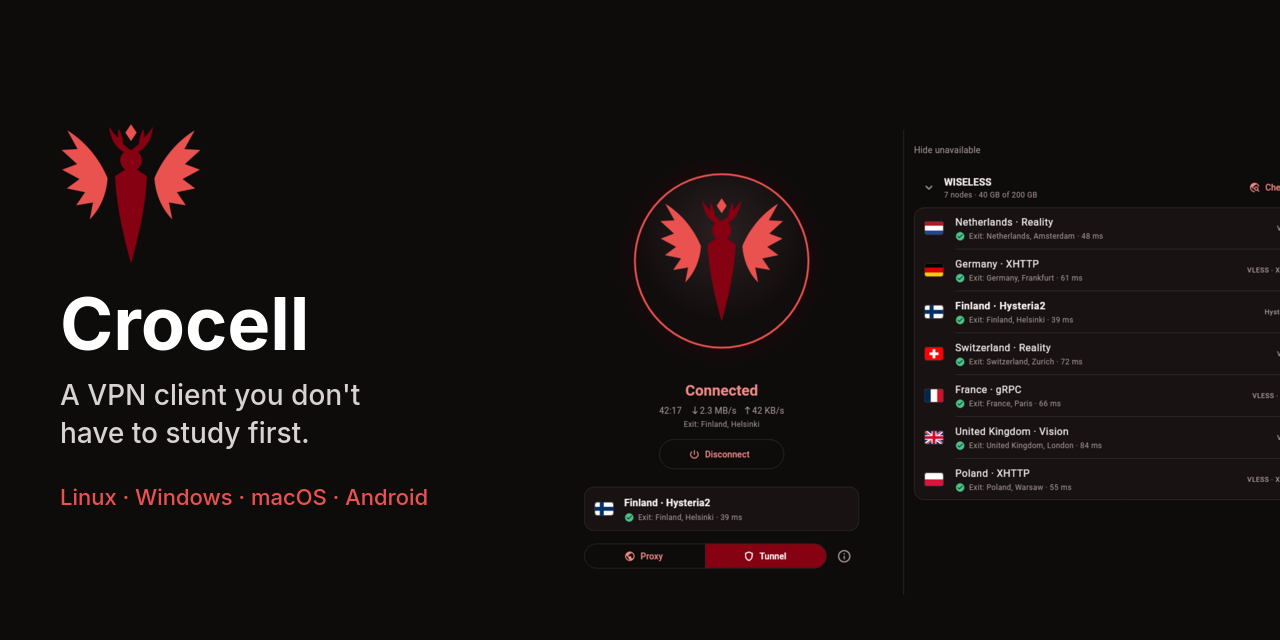
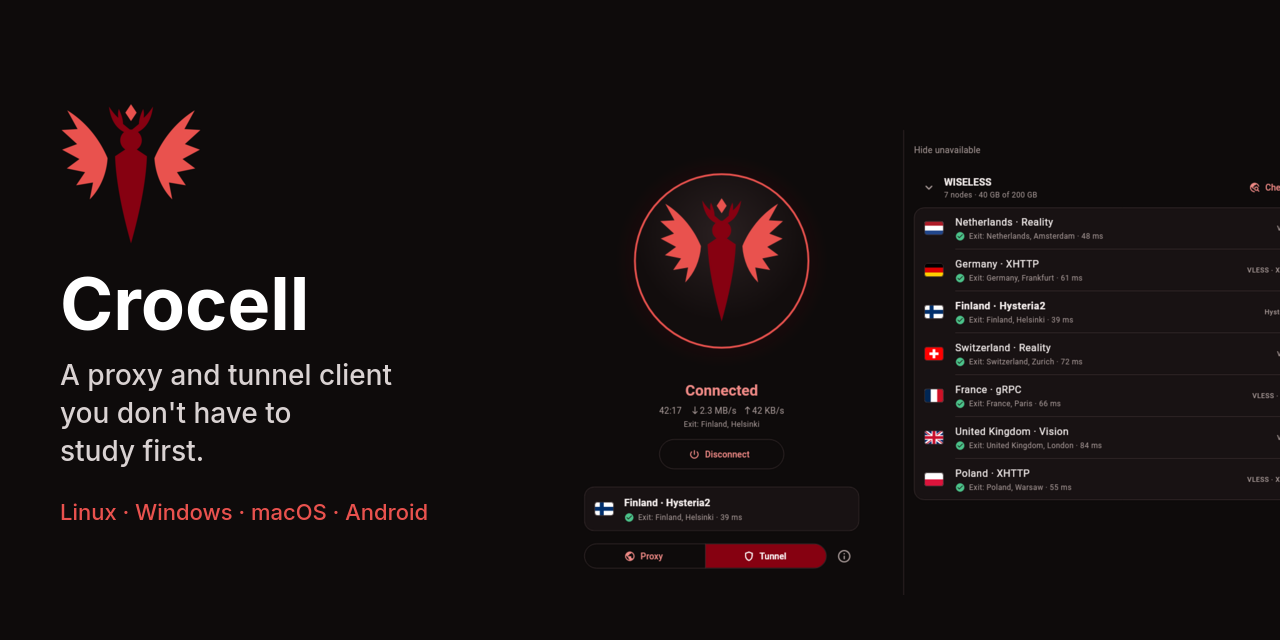
README: proxy and tunnel client, the author's pledge; preview image to match

Changed region(s): [[0.0312, 0.4375, 0.3125, 0.7188], [0.0312, 0.1562, 0.1562, 0.4062], [0.0312, 0.75, 0.3438, 0.8125]]

diff --git a/README.md b/README.md
@@ -5,7 +5,7 @@
 <h1 align="center">Crocell</h1>
 
 <p align="center">
-  A VPN client you don't have to study first.<br>
+  A proxy and tunnel client you don't have to study first.<br>
   Linux · Windows · macOS · Android<br>
   VLESS Reality · XHTTP · VMess · Trojan · Shadowsocks · Hysteria2 · TUIC · WireGuard · AmneziaWG
 </p>
@@ -29,7 +29,7 @@
 
 Paste your subscription link, pick a node, press the button. That's the whole first screen. No wall of toggles, no "ping 5000" that means nothing to anyone.
 
-Under the hood it's [mihomo](https://github.com/MetaCubeX/mihomo), so it speaks every modern protocol. On top of that it does the things I kept missing in other clients: it shows where a node really exits, it checks that traffic actually goes through the VPN (and tells you when it stops), and it lets you send a site or a program around the tunnel without editing YAML.
+Under the hood it's [mihomo](https://github.com/MetaCubeX/mihomo), so it speaks every modern protocol. On top of that it does the things I kept missing in other clients: it shows where a node really exits, it checks that traffic actually goes through the node (and tells you when it stops), and it lets you send a site or a program around the tunnel without editing YAML.
 
 It's free and open source, with no accounts, no ads and no telemetry. Crocell is only the client, so you bring a subscription from your provider or a server of your own.
 
@@ -46,12 +46,12 @@ When a new version comes out, Crocell says so after you connect, and a click on 
 
 ### First start
 
-On a desktop the VPN is held by a small system service, so closing or updating the window never drops the connection. The service needs admin rights once:
+On a desktop the connection is held by a small system service, so closing or updating the window never drops it. The service needs admin rights once:
 
 - **Linux.** Crocell shows the install command and a copy button. If [Gear Lever](https://flathub.org/apps/it.mijorus.gearlever) keeps the AppImage, it's `sudo ~/AppImages/crocell.appimage crocelld install`. Gear Lever also picks up updates by itself.
 - **Windows.** The installer sets the service up. The build isn't code-signed yet, so SmartScreen will warn you: "More info", then "Run anyway".
 - **macOS.** Drag Crocell to Applications. It isn't notarized, so macOS blocks the first launch; allow it in System Settings → Privacy & Security → "Open Anyway". Then press "Install service" in Crocell and enter your password.
-- **Android.** Let your browser install the APK, then allow the VPN when Crocell asks. That's it, there's no service to install.
+- **Android.** Let your browser install the APK, then allow the connection when Android asks. That's it, there's no service to install.
 
 ## What it does
 
@@ -59,8 +59,8 @@ On a desktop the VPN is held by a small system service, so closing or updating t
 - Takes WireGuard and AmneziaWG too: paste a config, an `awg://` link or a `vpn://` key from AmneziaVPN.
 - Handles VLESS Reality and Vision, XHTTP, Hysteria2 with obfs, and the rest of what mihomo supports.
 - Shows each node as a flag and an exit city after a check, not as a latency number. If the name says Netherlands and the exit says Germany, you'll see that. Nodes that failed their check can be hidden with one switch.
-- Runs as a system proxy (no admin rights, for apps that respect it) or as a TUN tunnel for the whole system. On Android the same choice means the whole phone through the VPN, or a local proxy for the apps you point at it.
-- Routes traffic through three lists: through the VPN, direct, or blocked. A rule can be a site, a wildcard, a subnet, a [runetfreedom](https://github.com/runetfreedom/russia-v2ray-rules-dat) geosite/geoip set (or your own database), a program, or an Android app. Lists copied from v2ray configs paste as they are, `domain:` and `full:` included. A specific rule beats a general one.
+- Runs as a system proxy (no admin rights, for apps that respect it) or as a TUN tunnel for the whole system. On Android the same choice means the whole phone through the tunnel, or a local proxy for the apps you point at it.
+- Routes traffic through three lists: through the tunnel, direct, or blocked. A rule can be a site, a wildcard, a subnet, a [runetfreedom](https://github.com/runetfreedom/russia-v2ray-rules-dat) geosite/geoip set (or your own database), a program, or an Android app. Lists copied from v2ray configs paste as they are, `domain:` and `full:` included. A specific rule beats a general one.
 - Checks the connection right after connecting and every couple of minutes, and sends a notification if traffic stops getting through.
 - Picks up new settings on its own: change a rule while connected and the tunnel quietly reconnects.
 - Turns on and off without opening the window: a Quick Settings tile on Android, and a toggle in GNOME's quick settings (Settings → "Add to GNOME quick settings" installs it).
@@ -74,9 +74,9 @@ On a desktop the VPN is held by a small system service, so closing or updating t
 
 ## Questions
 
-**Is this a VPN service?** No. Crocell has no servers and sells nothing. You need a subscription or a config from a provider, or your own server.
+**Does it come with servers?** No. Crocell has no servers and sells nothing. You need a subscription or a config from a provider, or your own server.
 
-**Will it read my provider's subscription?** If it's V2Ray/Xray links, base64 of them or Clash/mihomo YAML, it should. If it doesn't, [tell us](https://github.com/WiselessGroup/Crocell/issues/new?template=bug_report.yml), but keep the link itself to yourself: it's the key to your VPN.
+**Will it read my provider's subscription?** If it's V2Ray/Xray links, base64 of them or Clash/mihomo YAML, it should. If it doesn't, [tell us](https://github.com/WiselessGroup/Crocell/issues/new?template=bug_report.yml), but keep the link itself to yourself: it works like a password.
 
 **What does the app connect to on its own?** Here's the whole list:
 
@@ -97,7 +97,7 @@ core/             Go core on top of mihomo: subscriptions, checks, the tunnel
 proto/            the API between the client and the core
 ```
 
-On desktops the client talks to `crocelld` over a local socket (loopback with a token on Windows, where Dart has no unix sockets). On Android the same core runs inside the app, and `VpnService` builds the interface it asks for.
+On desktops the client talks to `crocelld` over a local socket (loopback with a token on Windows, where Dart has no unix sockets). On Android the same core runs inside the app, and Android's tunnel API builds the interface it asks for.
 
 ## Building from source
 
@@ -128,6 +128,18 @@ The packages come out of `scripts/`: `build-appimage.sh`, `build-windows.sh`, `b
 Bug reports help the most, especially for subscriptions and networks I can't test myself. [CONTRIBUTING.md](CONTRIBUTING.md) has the setup and the rules, [AGENTS.md](AGENTS.md) is for coding agents, and vulnerabilities go through [SECURITY.md](SECURITY.md).
 
 If Crocell saved you from editing a YAML file, a star helps other people find it.
+
+## The author's pledge
+
+I, fureunoir, the creator of Crocell, give my word that Crocell will never be paid software for anyone, individuals or companies. It will have no subscriptions and no paid features. The GPL-3.0 allows third parties to sell their own builds; I bear no responsibility for those.
+
+I hold that no word should be banned. I condemn insults directed at governments, people with disabilities, believers and any other group. But a kitchen knife can also do harm, and knives are not taken away from everyone because of it: the person who did the harm answers for it. I believe the same approach applies to access to the Internet, and that the task of any country's government is to bring up its citizens to a cultural level at which restricting the Internet is unnecessary.
+
+This is my personal opinion, not a call to action. I do not urge anyone to break the laws of any country: each user is responsible for complying with them where they are.
+
+I do not hide my identity, and I demand that Crocell not be used for evil: terrorism, human trafficking, gambling or similar activity. The license does not allow me to make this a legal restriction, so it stands as my personal demand of everyone who runs this program.
+
+fureunoir
 
 ## License
 
